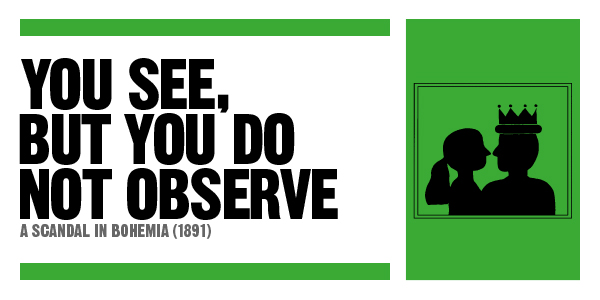
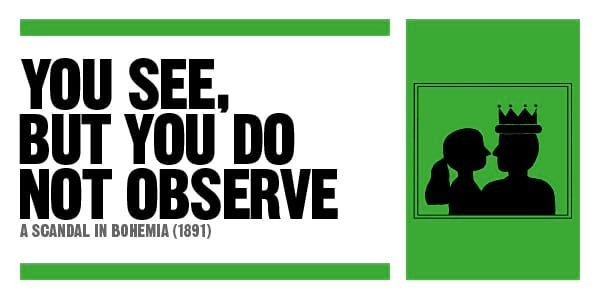
image optimization

diff --git a/index.html b/index.html
@@ -100,7 +100,7 @@
     <main>
         <div class="cover">
             <div class="images">
-                <img src="assets/camouflage.png" alt="">
+                <img src="assets/camouflage.jpg" alt="">
                 <h3>Who doesn't love chandler?😑</h3>
 
                 <img src="assets/sherlock1.jpg" alt="">
